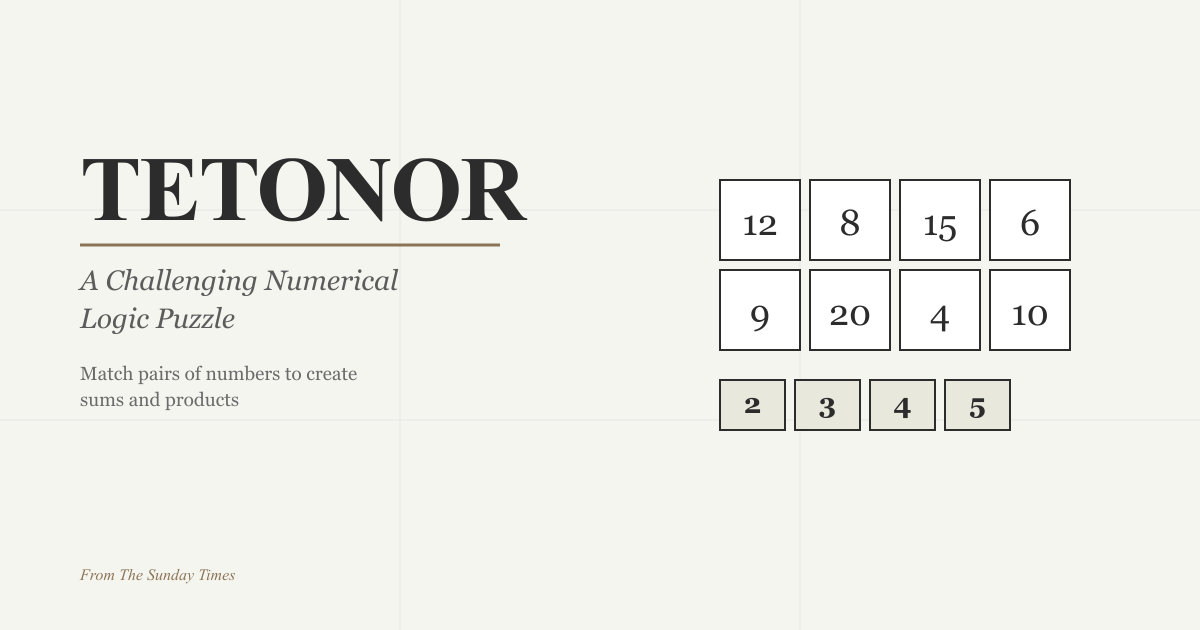
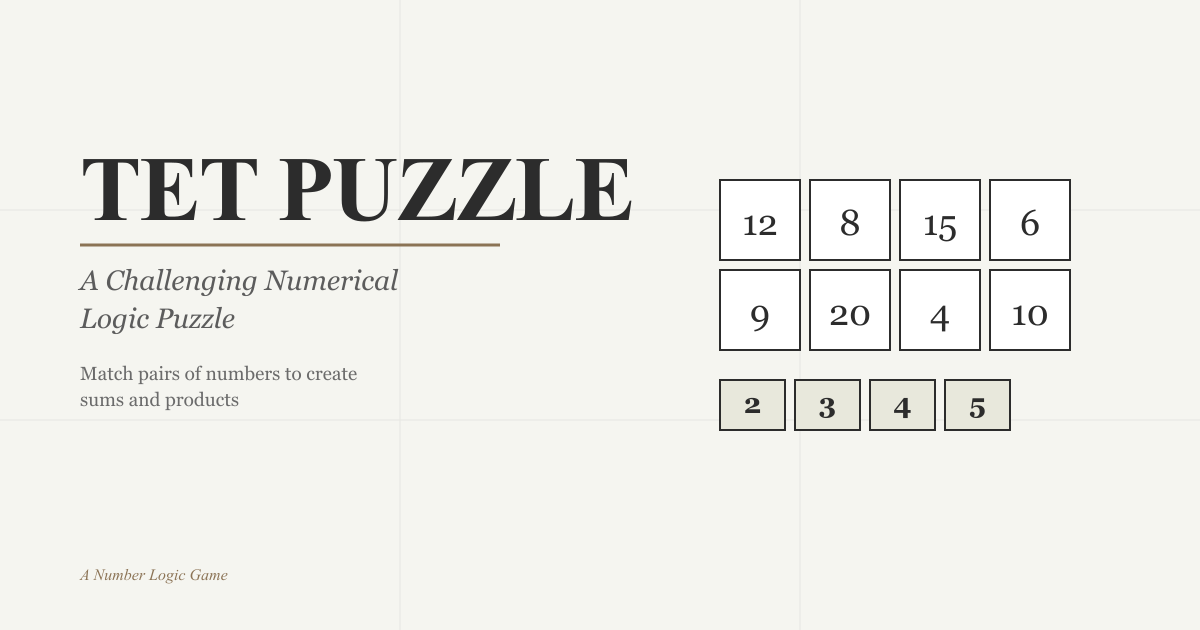
Improve SEO

Changed region(s): [[0.2158, 0.2413, 0.5242, 0.3619], [0.0617, 0.9048, 0.185, 0.9349]]

diff --git a/src/i18n/translations.ts b/src/i18n/translations.ts
@@ -258,6 +258,26 @@ export const translations = {
     termsSeverabilityDesc: 'If any provision of these Terms is found to be unenforceable or invalid, that provision shall be limited or eliminated to the minimum extent necessary, and the remaining provisions shall remain in full force and effect.',
     termsContact: 'Contact Us',
     termsContactDesc: 'If you have any questions about these Terms of Service, please contact us through our website.',
+
+    // Homepage SEO Content
+    seoHowToPlay: 'How to Play Tet Puzzle',
+    seoHowToPlayDesc: 'Tet Puzzle is a number logic game where you match pairs of numbers to achieve target sums and products. Each puzzle presents a 4x4 grid with 16 cells to fill.',
+    seoHowToPlayStep1: 'Look at the target number in each cell',
+    seoHowToPlayStep2: 'Select two numbers from the strip below',
+    seoHowToPlayStep3: 'Choose an operation: addition (+) or multiplication (x)',
+    seoHowToPlayStep4: 'Each pair must be used exactly twice: once for addition, once for multiplication',
+    seoLearnMore: 'Learn more about the rules',
+    seoRules: 'Tet Puzzle Rules',
+    seoRulesMain: 'Every pair of numbers must be used exactly twice: once for addition and once for multiplication.',
+    seoRulesDesc: 'This core rule is what makes Tet Puzzle challenging. You cannot use a pair only for sums or only for products - you must find cells where each pair works for both operations.',
+    seoFaq: 'Frequently Asked Questions',
+    seoFaqQ1: 'Is Tet Puzzle free to play?',
+    seoFaqA1: 'Yes! Tet Puzzle is completely free to play. No registration or payment required. Play as many puzzles as you want.',
+    seoFaqQ2: 'How often are new puzzles available?',
+    seoFaqA2: 'A new Daily Challenge puzzle is available every day at midnight. You can also play unlimited Free Play puzzles at any difficulty level.',
+    seoFaqQ3: 'Can I play previous daily puzzles?',
+    seoFaqA3: 'Yes! Visit the Archive to access all previous daily challenge puzzles and track your progress.',
+    seoViewAllFaq: 'View all frequently asked questions',
   },
   es: {
     // Header
@@ -518,6 +538,26 @@ export const translations = {
     termsSeverabilityDesc: 'Si alguna disposición de estos Términos se considera inaplicable o inválida, dicha disposición se limitará o eliminará en la medida mínima necesaria, y las disposiciones restantes permanecerán en pleno vigor y efecto.',
     termsContact: 'Contáctanos',
     termsContactDesc: 'Si tienes alguna pregunta sobre estos Términos de Servicio, por favor contáctanos a través de nuestro sitio web.',
+
+    // Homepage SEO Content
+    seoHowToPlay: 'Cómo Jugar Tet Puzzle',
+    seoHowToPlayDesc: 'Tet Puzzle es un juego de lógica numérica donde emparejas números para lograr sumas y productos objetivo. Cada puzzle presenta una cuadrícula de 4x4 con 16 celdas para rellenar.',
+    seoHowToPlayStep1: 'Observa el número objetivo en cada celda',
+    seoHowToPlayStep2: 'Selecciona dos números de la tira inferior',
+    seoHowToPlayStep3: 'Elige una operación: suma (+) o multiplicación (x)',
+    seoHowToPlayStep4: 'Cada par debe usarse exactamente dos veces: una para suma, otra para multiplicación',
+    seoLearnMore: 'Aprende más sobre las reglas',
+    seoRules: 'Reglas de Tet Puzzle',
+    seoRulesMain: 'Cada par de números debe usarse exactamente dos veces: una para suma y otra para multiplicación.',
+    seoRulesDesc: 'Esta regla fundamental es lo que hace a Tet Puzzle desafiante. No puedes usar un par solo para sumas o solo para productos - debes encontrar celdas donde cada par funcione para ambas operaciones.',
+    seoFaq: 'Preguntas Frecuentes',
+    seoFaqQ1: '¿Es gratis jugar Tet Puzzle?',
+    seoFaqA1: '¡Sí! Tet Puzzle es completamente gratis. No requiere registro ni pago. Juega tantos puzzles como quieras.',
+    seoFaqQ2: '¿Con qué frecuencia hay nuevos puzzles?',
+    seoFaqA2: 'Un nuevo Desafío Diario está disponible cada día a medianoche. También puedes jugar puzzles ilimitados en Juego Libre a cualquier nivel de dificultad.',
+    seoFaqQ3: '¿Puedo jugar puzzles diarios anteriores?',
+    seoFaqA3: '¡Sí! Visita el Archivo para acceder a todos los desafíos diarios anteriores y seguir tu progreso.',
+    seoViewAllFaq: 'Ver todas las preguntas frecuentes',
   },
 } as const;
 

diff --git a/src/components/HomepageSeoContent.tsx b/src/components/HomepageSeoContent.tsx
@@ -1,0 +1,83 @@
+import { I18nContext, useI18n, useTranslation } from '../i18n';
+
+function SeoContentInner() {
+  const { t } = useTranslation();
+
+  return (
+    <div class="max-w-[800px] mx-auto mt-12 px-4">
+      {/* How to Play Section */}
+      <section class="mb-10 pb-8 border-b border-gray-200">
+        <h2 class="text-2xl font-serif text-black mb-4">{t('seoHowToPlay')}</h2>
+        <p class="text-gray-600 leading-relaxed mb-4">{t('seoHowToPlayDesc')}</p>
+        <ul class="text-gray-600 ml-6 space-y-2 list-disc">
+          <li>{t('seoHowToPlayStep1')}</li>
+          <li>{t('seoHowToPlayStep2')}</li>
+          <li>{t('seoHowToPlayStep3')}</li>
+          <li>{t('seoHowToPlayStep4')}</li>
+        </ul>
+        <a href="/how-to-play" class="inline-block mt-4 text-black underline hover:text-gray-600">
+          {t('seoLearnMore')}
+        </a>
+      </section>
+
+      {/* Rules Section */}
+      <section class="mb-10 pb-8 border-b border-gray-200">
+        <h2 class="text-2xl font-serif text-black mb-4">{t('seoRules')}</h2>
+        <div class="bg-gray-50 p-5 border border-gray-200">
+          <p class="text-gray-700 font-medium text-center">{t('seoRulesMain')}</p>
+        </div>
+        <p class="text-gray-600 leading-relaxed mt-4">{t('seoRulesDesc')}</p>
+      </section>
+
+      {/* FAQ Section */}
+      <section class="mb-10">
+        <h2 class="text-2xl font-serif text-black mb-4">{t('seoFaq')}</h2>
+        <div class="space-y-4">
+          <details class="border border-gray-200 group">
+            <summary class="p-4 cursor-pointer font-medium text-black list-none flex items-center justify-between">
+              <span>{t('seoFaqQ1')}</span>
+              <span class="text-gray-400 group-open:hidden">+</span>
+              <span class="text-gray-400 hidden group-open:inline">-</span>
+            </summary>
+            <div class="px-4 pb-4">
+              <p class="text-gray-600">{t('seoFaqA1')}</p>
+            </div>
+          </details>
+          <details class="border border-gray-200 group">
+            <summary class="p-4 cursor-pointer font-medium text-black list-none flex items-center justify-between">
+              <span>{t('seoFaqQ2')}</span>
+              <span class="text-gray-400 group-open:hidden">+</span>
+              <span class="text-gray-400 hidden group-open:inline">-</span>
+            </summary>
+            <div class="px-4 pb-4">
+              <p class="text-gray-600">{t('seoFaqA2')}</p>
+            </div>
+          </details>
+          <details class="border border-gray-200 group">
+            <summary class="p-4 cursor-pointer font-medium text-black list-none flex items-center justify-between">
+              <span>{t('seoFaqQ3')}</span>
+              <span class="text-gray-400 group-open:hidden">+</span>
+              <span class="text-gray-400 hidden group-open:inline">-</span>
+            </summary>
+            <div class="px-4 pb-4">
+              <p class="text-gray-600">{t('seoFaqA3')}</p>
+            </div>
+          </details>
+        </div>
+        <a href="/faq" class="inline-block mt-4 text-black underline hover:text-gray-600">
+          {t('seoViewAllFaq')}
+        </a>
+      </section>
+    </div>
+  );
+}
+
+export default function HomepageSeoContent() {
+  const i18n = useI18n();
+
+  return (
+    <I18nContext.Provider value={i18n}>
+      <SeoContentInner />
+    </I18nContext.Provider>
+  );
+}
